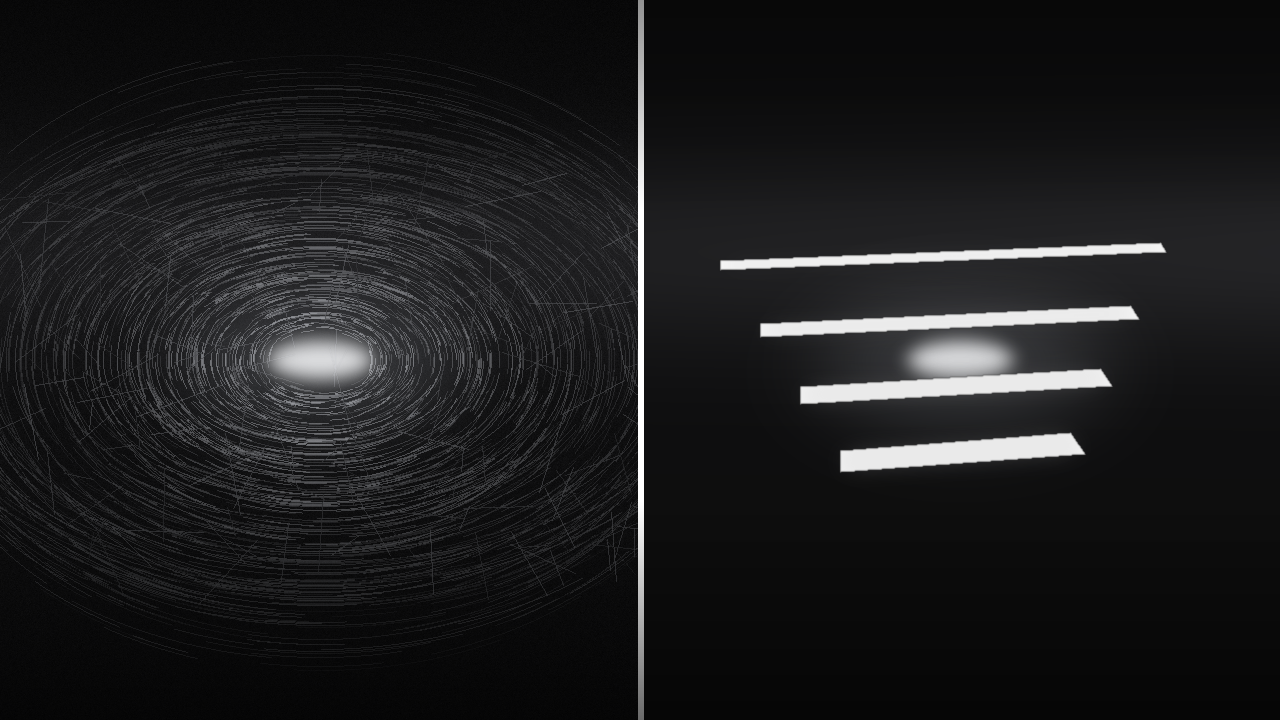
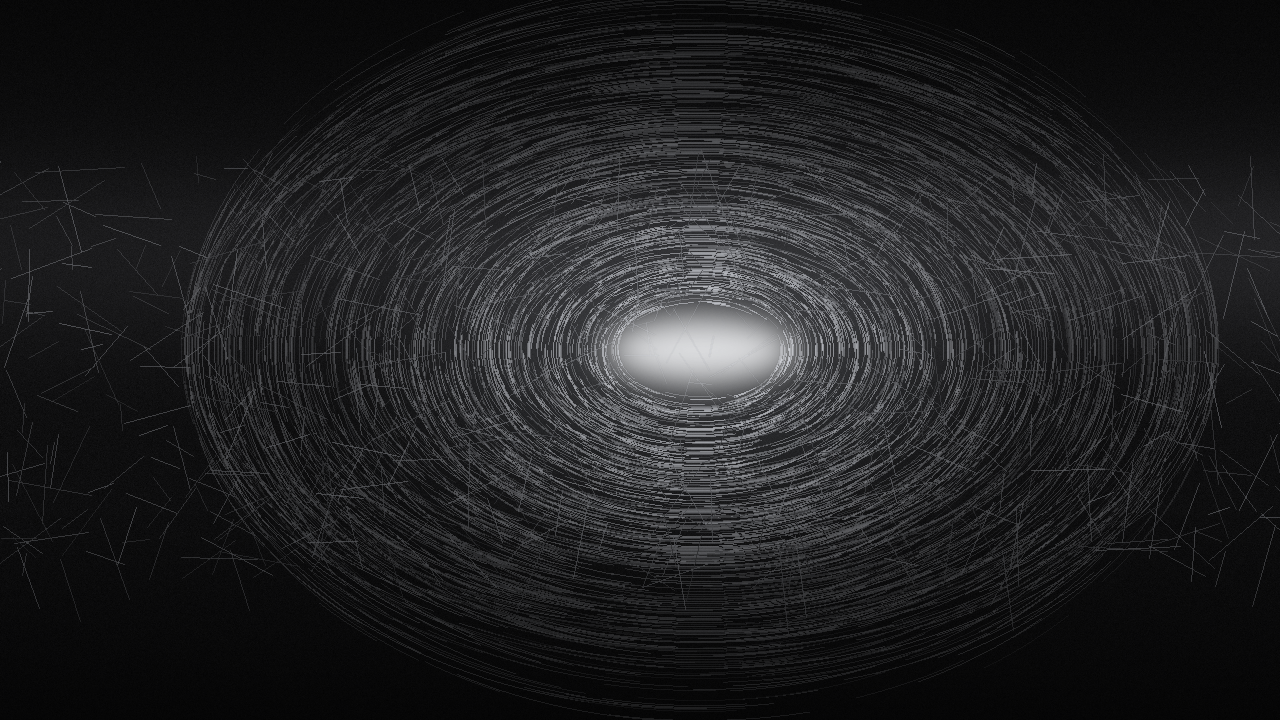
BPP ランクル250 洗車傷の回：B をTak案に差し替え、B2 を追加、コンタクトシートを4案並びに
Claude-Session: https://claude.ai/code/session_01VjwRN8DxhXyDc2krxHtZnD

diff --git a/COO/scripts/bpp_thumb_lc250_scratch.py b/COO/scripts/bpp_thumb_lc250_scratch.py
@@ -30,9 +30,13 @@ from bpp_thumb_comps import (H, LOWER_BOX, NAVY, ORANGE, RED, UPPER_BOX, W, add_
 # 上段は 2026-10-12 版の枠を 3px 上げる（縁取りのにじみが中段 y210 にかからないように）
 UPPER_BOX = (UPPER_BOX[0], UPPER_BOX[1] - 3, UPPER_BOX[2], UPPER_BOX[3] - 3)
 
+SHEET_ORDER = ("A", "B", "B2", "C")  # コンタクトシートに並べる順
+
 PATTERNS = [
     dict(label="A", upper="ディーラーコーティング", lower="1年後の黒ランクル", scene="swirl"),
-    dict(label="B", upper="黒い車の洗車傷", lower="磨いたらこうなる", scene="before_after"),
+    # B・B2（Tak案で差し替え）：Before/After なし。C と同じ 1 枚の黒ボディ＋洗車傷
+    dict(label="B", upper="パール無しの黒", lower="ごまかせない", scene="swirl_macro"),
+    dict(label="B2", upper="パール無しの黒", lower="傷はごまかせない", scene="swirl_macro"),
     dict(label="C", upper="どこまで取れる？", lower="黒の洗車傷", scene="swirl_macro"),
     # A の別案（コンタクトシートには入れない）：Before/After にして「磨けば戻る」に寄せる
     dict(label="A_alt", upper="ディーラーコーティング", lower="1年後の黒ランクル", scene="before_after"),
@@ -155,13 +159,14 @@ def main():
         zone = alpha.crop((int(W * 0.9), int(H * 0.9), W, H)).getextrema()
         mid = alpha.crop((0, 212, W, 512)).getbbox()
         print(p["label"], "badge_zone_alpha", zone, "text_in_mid_band_bbox", mid)
-        if p["label"] in ("A", "B", "C"):
+        if p["label"] in SHEET_ORDER:
             items.append((p, comp))
 
-    tw, th, gap, cap = 640, 360, 24, 44
-    sheet = Image.new("RGB", (gap + 3 * (tw + gap), 70 + th + cap + gap), (244, 244, 244))
+    items.sort(key=lambda it: SHEET_ORDER.index(it[0]["label"]))
+    tw, th, gap, cap = 560, 315, 24, 44
+    sheet = Image.new("RGB", (gap + len(items) * (tw + gap), 70 + th + cap + gap), (244, 244, 244))
     d = ImageDraw.Draw(sheet)
-    d.text((gap, 18), "BPP ランクル250（黒）洗車傷の回｜サムネ3案（仮背景）",
+    d.text((gap, 18), "BPP ランクル250（黒）洗車傷の回｜サムネ4案（仮背景）",
            font=ImageFont.truetype(a.font, 30), fill=(20, 20, 20))
     f = ImageFont.truetype(a.font, 22)
     for i, (p, img) in enumerate(items):
